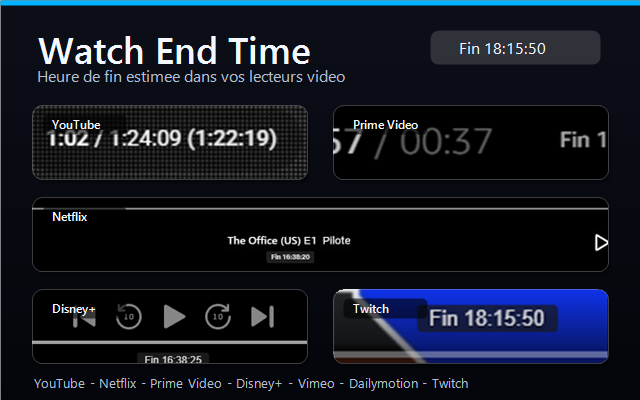
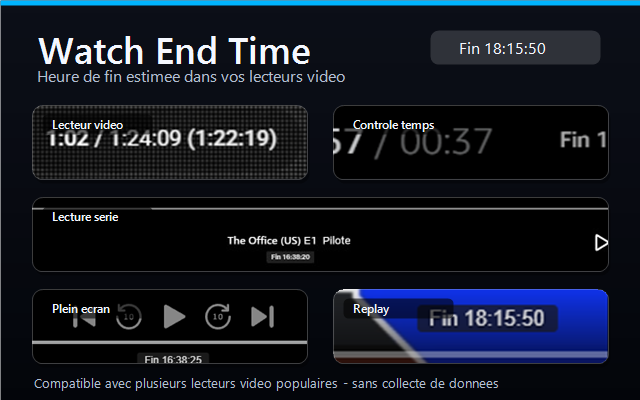
Reduce store listing keyword usage

diff --git a/docs/STORE_LISTING.md b/docs/STORE_LISTING.md
@@ -10,7 +10,7 @@ Watch End Time
 
 ## Resume court
 
-Affiche l'heure estimee de fin dans les lecteurs YouTube, Netflix, Prime Video, Disney+, Vimeo, Dailymotion et Twitch.
+Affiche l'heure estimee de fin directement dans les lecteurs video compatibles.
 
 ## Description
 
@@ -18,15 +18,12 @@ Watch End Time ajoute un badge discret pour indiquer a quelle heure la video dev
 
 Le calcul prend en compte la duree restante, l'heure locale et la vitesse de lecture actuelle. Si vous regardez une video en 1.25x, 1.5x ou 2x, l'heure de fin est ajustee automatiquement.
 
-Sur YouTube, Netflix, Prime Video, Disney+, Vimeo, Dailymotion et Twitch VOD/replays, le badge est integre directement aux controles du lecteur quand une zone de controle fiable est detectee.
+Le badge est integre directement aux controles du lecteur quand une zone de controle fiable est detectee. Si l'extension ne trouve pas d'emplacement propre dans le lecteur, elle n'affiche rien.
 
 ## Points cles
 
-- Integration directe dans le lecteur YouTube.
-- Integration directe dans le lecteur Netflix quand l'interface le permet.
-- Integration directe dans le lecteur Prime Video/Amazon Video quand l'interface le permet.
-- Integration directe dans le lecteur Disney+ quand l'interface le permet.
-- Integration directe dans les lecteurs Vimeo, Dailymotion et Twitch VOD/replays quand l'interface le permet.
+- Integration directe dans les controles des lecteurs compatibles.
+- Affichage discret, sans badge flottant global.
 - Mise a jour automatique pendant la lecture.
 - Prise en compte de la vitesse de lecture.
 - Fonctionne sans compte, sans configuration et sans collecte de donnees.
@@ -34,7 +31,7 @@ Sur YouTube, Netflix, Prime Video, Disney+, Vimeo, Dailymotion et Twitch VOD/rep
 
 ## Permissions
 
-L'extension s'execute uniquement sur YouTube, Netflix, Prime Video/Amazon Video, Disney+, Vimeo, Dailymotion et Twitch afin d'ajouter le badge de fin estimee. Elle ne lit pas l'historique, ne collecte pas de donnees et ne contacte aucun serveur externe.
+L'extension s'execute uniquement sur les sites video compatibles declares dans le manifeste afin d'ajouter le badge de fin estimee. Elle ne lit pas l'historique, ne collecte pas de donnees et ne contacte aucun serveur externe.
 
 ## Notes pour la suite
 

diff --git a/README.md b/README.md
@@ -1,6 +1,6 @@
 # Watch End Time
 
-Extension Chrome/Edge qui affiche l'heure estimee de fin dans les controles des lecteurs YouTube, Netflix, Prime Video, Disney+, Vimeo, Dailymotion et Twitch.
+Extension Chrome/Edge qui affiche l'heure estimee de fin dans les controles des lecteurs video compatibles.
 
 Le badge tient compte de la duree restante, de l'heure locale et de la vitesse de lecture.
 
@@ -16,18 +16,16 @@ Createur : 3Devs.
 
 ## Fonctionnalites
 
-- Affichage `Fin HH:MM:SS` integre dans les controles YouTube.
-- Integration Netflix dans les controles du lecteur quand une zone de controle fiable est detectee.
-- Integration Prime Video/Amazon Video dans les controles du lecteur quand une zone de controle fiable est detectee.
-- Integration Disney+ dans les controles du lecteur quand une zone de controle fiable est detectee.
-- Integration Vimeo, Dailymotion et Twitch VOD/replays dans les controles du lecteur quand une zone de controle fiable est detectee.
+- Affichage `Fin HH:MM:SS` integre dans les controles des lecteurs compatibles.
+- Integration uniquement quand une zone de controle fiable est detectee.
+- Aucun badge flottant global si le lecteur ne fournit pas d'emplacement propre.
 - Mise a jour pendant la lecture, apres pause/reprise, seek et changement de vitesse.
 - Detection des videos terminees et des lives sans duree fiable.
 - Aucune permission sensible et aucune collecte de donnees.
 
 ## Compatibilite
 
-YouTube garde une integration native dans le lecteur. Netflix, Prime Video, Disney+, Vimeo, Dailymotion et Twitch VOD/replays utilisent aussi une integration dans les controles du lecteur quand l'interface expose un ancrage fiable. Les lecteurs HTML5 generiques sur tous les sites restent prevus pour plus tard, car ils demanderaient une permission plus large.
+L'extension cible des plateformes video declarees dans le manifeste et n'affiche le badge que lorsqu'une integration propre dans le lecteur est possible. Les lecteurs HTML5 generiques sur tous les sites restent prevus pour plus tard, car ils demanderaient une permission plus large.
 
 ## Publication
 

diff --git a/docs/SCREENSHOT_GUIDE.md b/docs/SCREENSHOT_GUIDE.md
@@ -2,13 +2,10 @@
 
 Captures recommandees pour la fiche publique :
 
-1. Lecteur YouTube normal avec le badge `Fin HH:MM:SS` visible.
+1. Lecteur compatible avec le badge `Fin HH:MM:SS` visible.
 2. Changement de vitesse de lecture ouvert, pour montrer que le calcul s'adapte.
 3. Mode theatre ou plein ecran avec le badge integre aux controles.
-4. Netflix avec le badge integre dans les controles du lecteur, si l'ancrage est detecte.
-5. Prime Video avec le badge integre dans les controles du lecteur, si l'ancrage est detecte.
-6. Disney+ avec le badge integre dans les controles du lecteur, si l'ancrage est detecte.
-7. Vimeo ou Dailymotion avec le badge integre dans les controles du lecteur, si l'ancrage est detecte.
+4. Exemples de lecteurs compatibles avec le badge integre, si l'ancrage est detecte.
 
 Conseils :
 

diff --git a/docs/PRIVACY.md b/docs/PRIVACY.md
@@ -2,7 +2,7 @@
 
 Watch End Time, cree par 3Devs, ne collecte, ne stocke et ne transmet aucune donnee personnelle.
 
-L'extension lit uniquement les informations deja presentes dans le lecteur video de la page ouverte par l'utilisateur sur YouTube, Netflix, Prime Video, Disney+, Vimeo, Dailymotion et Twitch :
+L'extension lit uniquement les informations deja presentes dans le lecteur video des sites compatibles declares dans le manifeste :
 
 - duree de la video ;
 - position de lecture actuelle ;